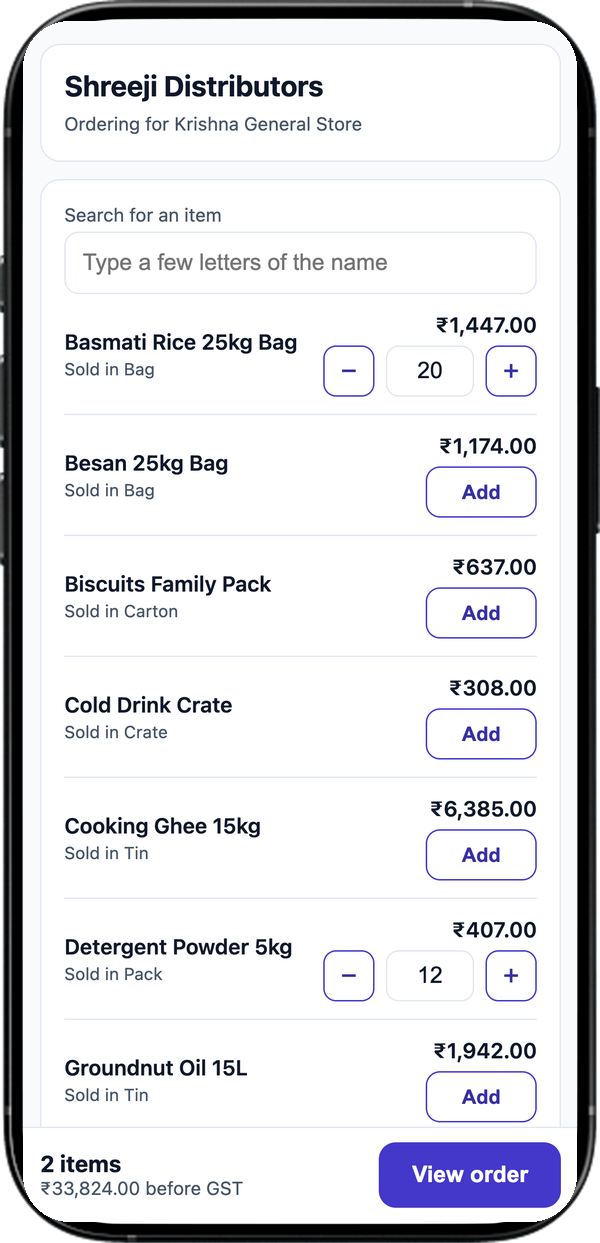
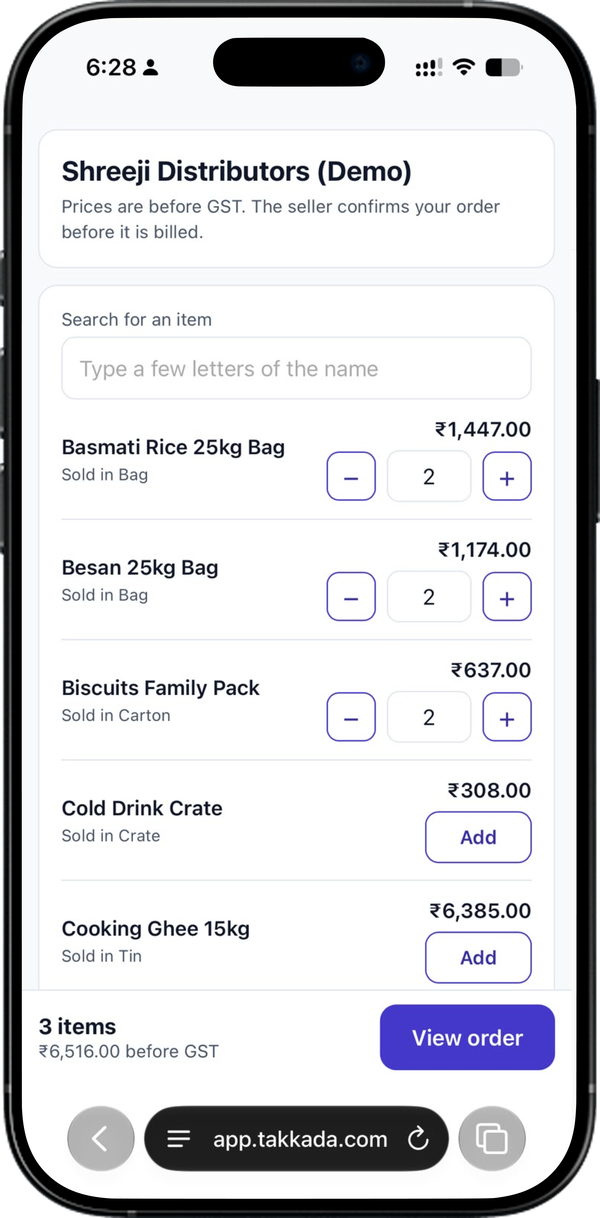
feat(features): use the operator mockup as the ordering-link hero
Swapped in the supplied mockup (2026-08-11), from the same design set the
other 26 feature pages draw from, at 600x1218 and 39,732 bytes.

It earns the hero slot over the stage capture for one detail: the browser
address bar is in the frame. The headline claims the retailer installs
nothing, and a phone showing an ordinary browser proves that faster than
the sentence does. The status bar also lands the image in the same visual
register as its neighbours.

The stage capture it displaces moves down to walkthrough step 1, where it
is still doing work: its header reads "Ordering for <party>", which is the
only place on the page that shows a link naming its buyer, and the
comparison table makes that claim.

The merchant inbox step is still stamped placeholder artwork.

diff --git a/src/data/featurePagesSecondBatch.js b/src/data/featurePagesSecondBatch.js
@@ -2265,13 +2265,16 @@ export const SECOND_BATCH = [
     },
     footerLabel: 'Customer order link',
     // The hero is this page's LCP element, so it is budgeted in
-    // scripts/checkImageBudgets.mjs and rendered eagerly. Showing the buyer's
-    // real screen with the running total does more than a diagram of the flow.
+    // scripts/checkImageBudgets.mjs and rendered eagerly. Operator-supplied
+    // mockup (2026-08-11), and it earns the slot over the stage capture below
+    // it for one reason: the browser address bar is in the frame. The whole
+    // claim of this page is that the retailer installs nothing, and a phone
+    // showing an ordinary browser proves that faster than the sentence does.
     hero: {
       image: '/assets/screenshots/order-link-buyer-mockup.webp',
-      alt: 'A distributor’s ordering link open on a phone, showing priced items, quantity steppers and a running order total',
+      alt: 'A distributor’s ordering link open in a phone browser, showing priced items, quantity steppers and a running order total before GST',
       width: 600,
-      height: 1243,
+      height: 1218,
     },
     author: 'founder',
     datePublished: '2026-08-11',
@@ -2283,8 +2286,12 @@ export const SECOND_BATCH = [
         title: 'You send him a link, once',
         body:
           'He opens it and your catalogue is already there, at the rates you decided. Nothing to download, no account to make, no password for him to forget and ring you about.',
+        // The personal-link capture: the header reads "Ordering for <party>",
+        // which is the evidence behind the personal-link claim in the
+        // comparison table. The hero shows the public link, so this is the
+        // only place on the page that shows a link naming its buyer.
         image: '/assets/screenshots/order-link-catalog-mockup.webp',
-        alt: 'Ordering link showing a distributor’s item list with prices and a search box',
+        alt: 'Ordering link opened for a named retailer, showing the item list with prices, quantity steppers and a running total',
         width: 600,
         height: 1243,
       },
